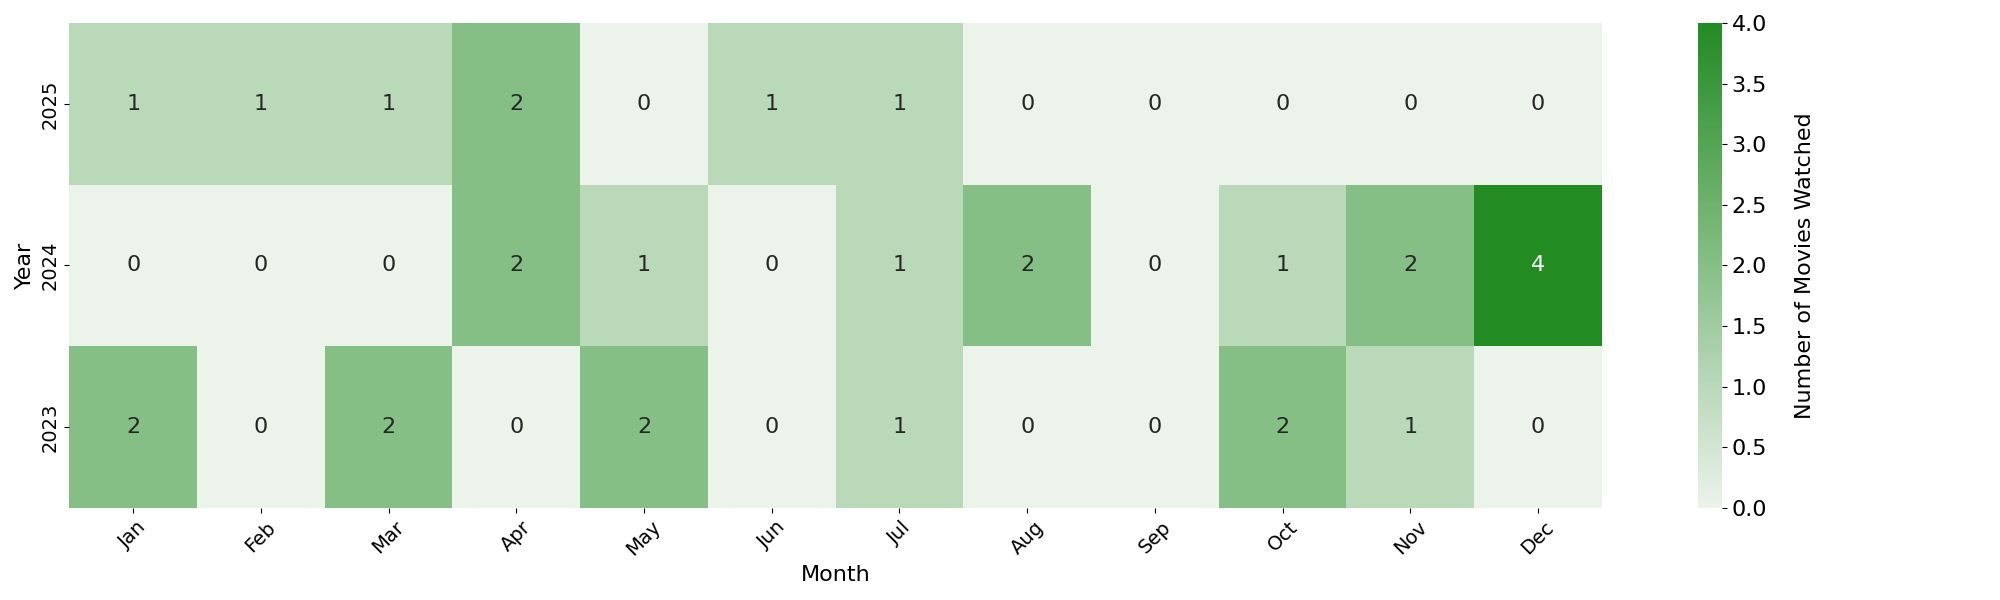
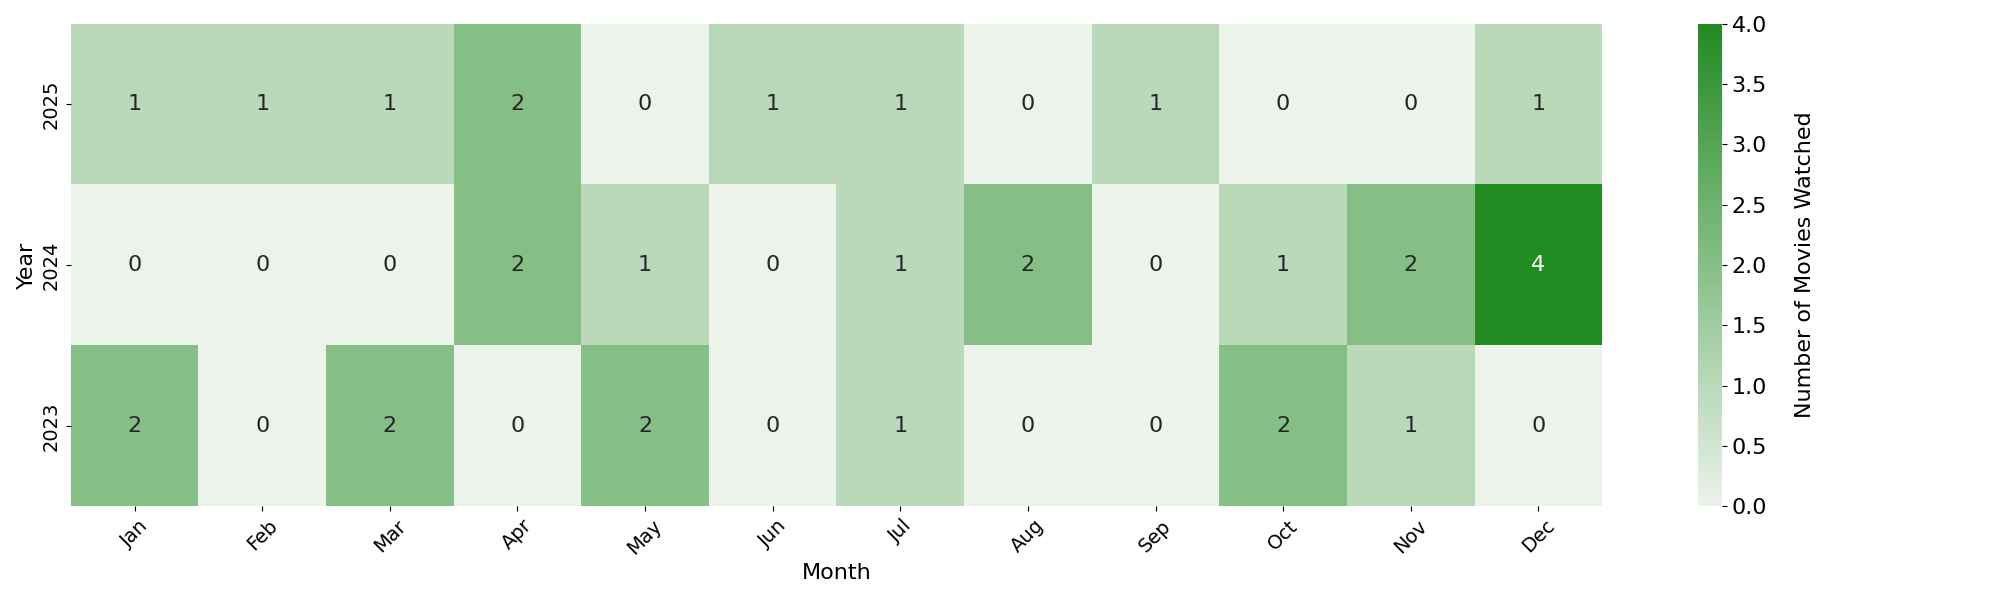
feat: media rating for 2025

diff --git a/media/rating.md b/media/rating.md
@@ -33,6 +33,20 @@ All of these were recorded right after I saw the film, with older ones being ass
 
 ## Watch List 2025
 
+### Dhurandhar 2025
+- **Rating**: ★★★★☆ 9
+- **Genre**: Action
+- **Date** : 25 December 2025
+- **Brief Review**: 
+Happy Christmas folks, saw this in the theaters as well, pretty daunting task. Loved the attention to detail, the sounds were crisp and immersive, from the water gushing through the dam + autos blaring in the bazaar, even the calmer moments in the film felt perfect. Ignoring the political aspect of this film seems impossible throughout. Some songs do seem excessive, but overall great soundtrack, did sound a lot like Hanumankind and Doja Cat. Few plot holes, where everyone forgets how injured the characters are in a fight, but pretty easy to look over. Overall fascinating movie, might as well watch the second half in March next year, just for the sake of it.
+
+### Demon Slayer 2025
+- **Rating**: ★★★★☆ 9
+- **Genre**: Anime
+- **Date** : 21 September 2025
+- **Brief Review**: 
+Saw this in the theatres with friends that were super into anime, to be honest I get the craze. The crowd was excellent to be around, did hype up every possible entrance no matter how small the story seemed to be. Amazing visualizations, although I kinda missed out on the story a bit, as it felt like too many story lines all happening at once, similar to Witcher. Turns out it encapsulates event of a single night, and this will be potrayed in a series of 3 movies. Pretty interesting concept, would recommend as a gateway drug.
+
 ### Karthik Calling Karthik 2010
 - **Rating**: ★★★★☆ 8
 - **Genre**: Thriller
